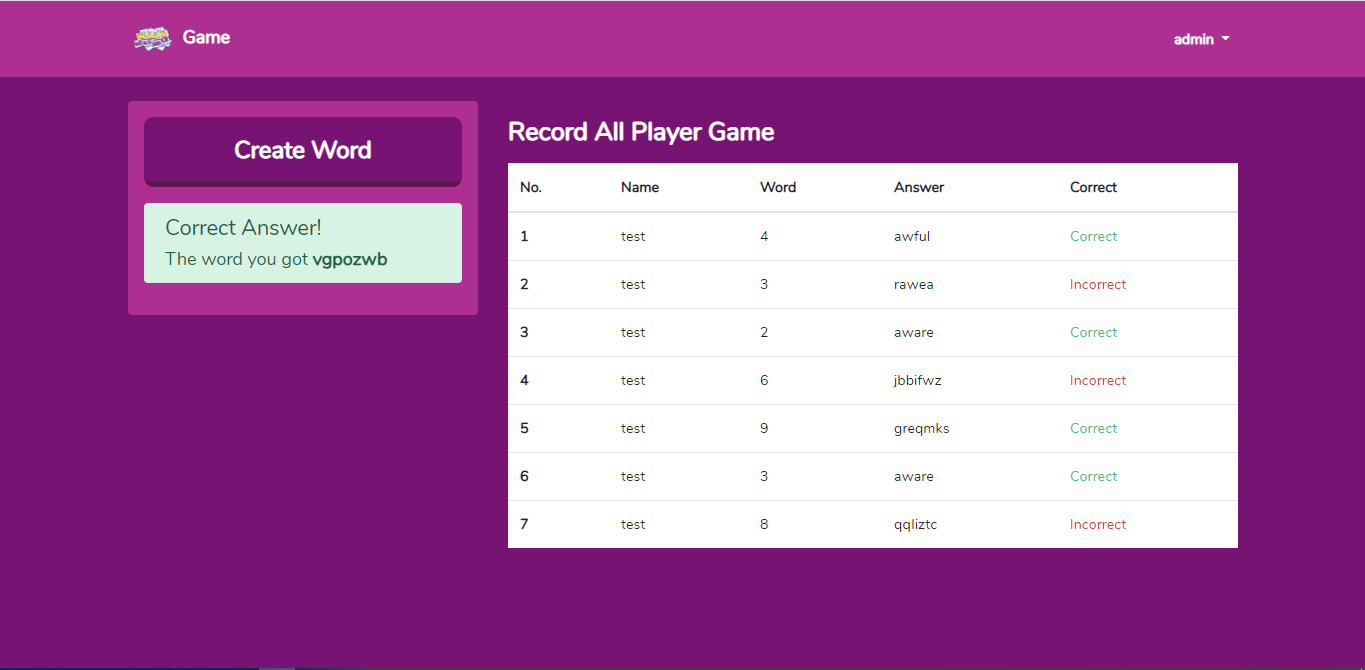
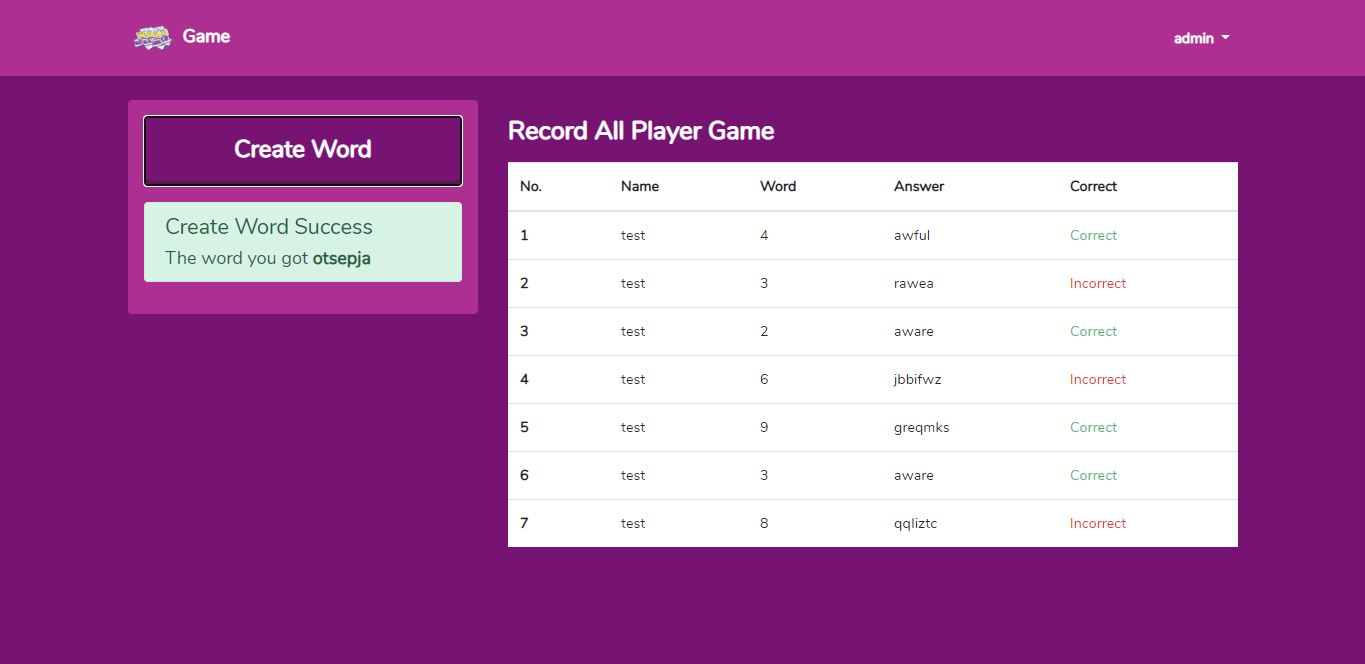
Fix wording

diff --git a/resources/views/admin.blade.php b/resources/views/admin.blade.php
@@ -7,7 +7,7 @@
             <div class="bg-primary p-3 rounded text-white">
                 <button class="primary btn-create-word font-weight-bold">Create Word</button>
                 <div id="notif-success" hidden class="alert alert-success mt-3" role="alert">
-                    <h4 class="alert-heading">Correct Answer!</h4>
+                    <h4 class="alert-heading">Create Word Success</h4>
                     <h5 class="mb-0">The word you got <b class="new-word"></b></h5>
                 </div>
             </div>
